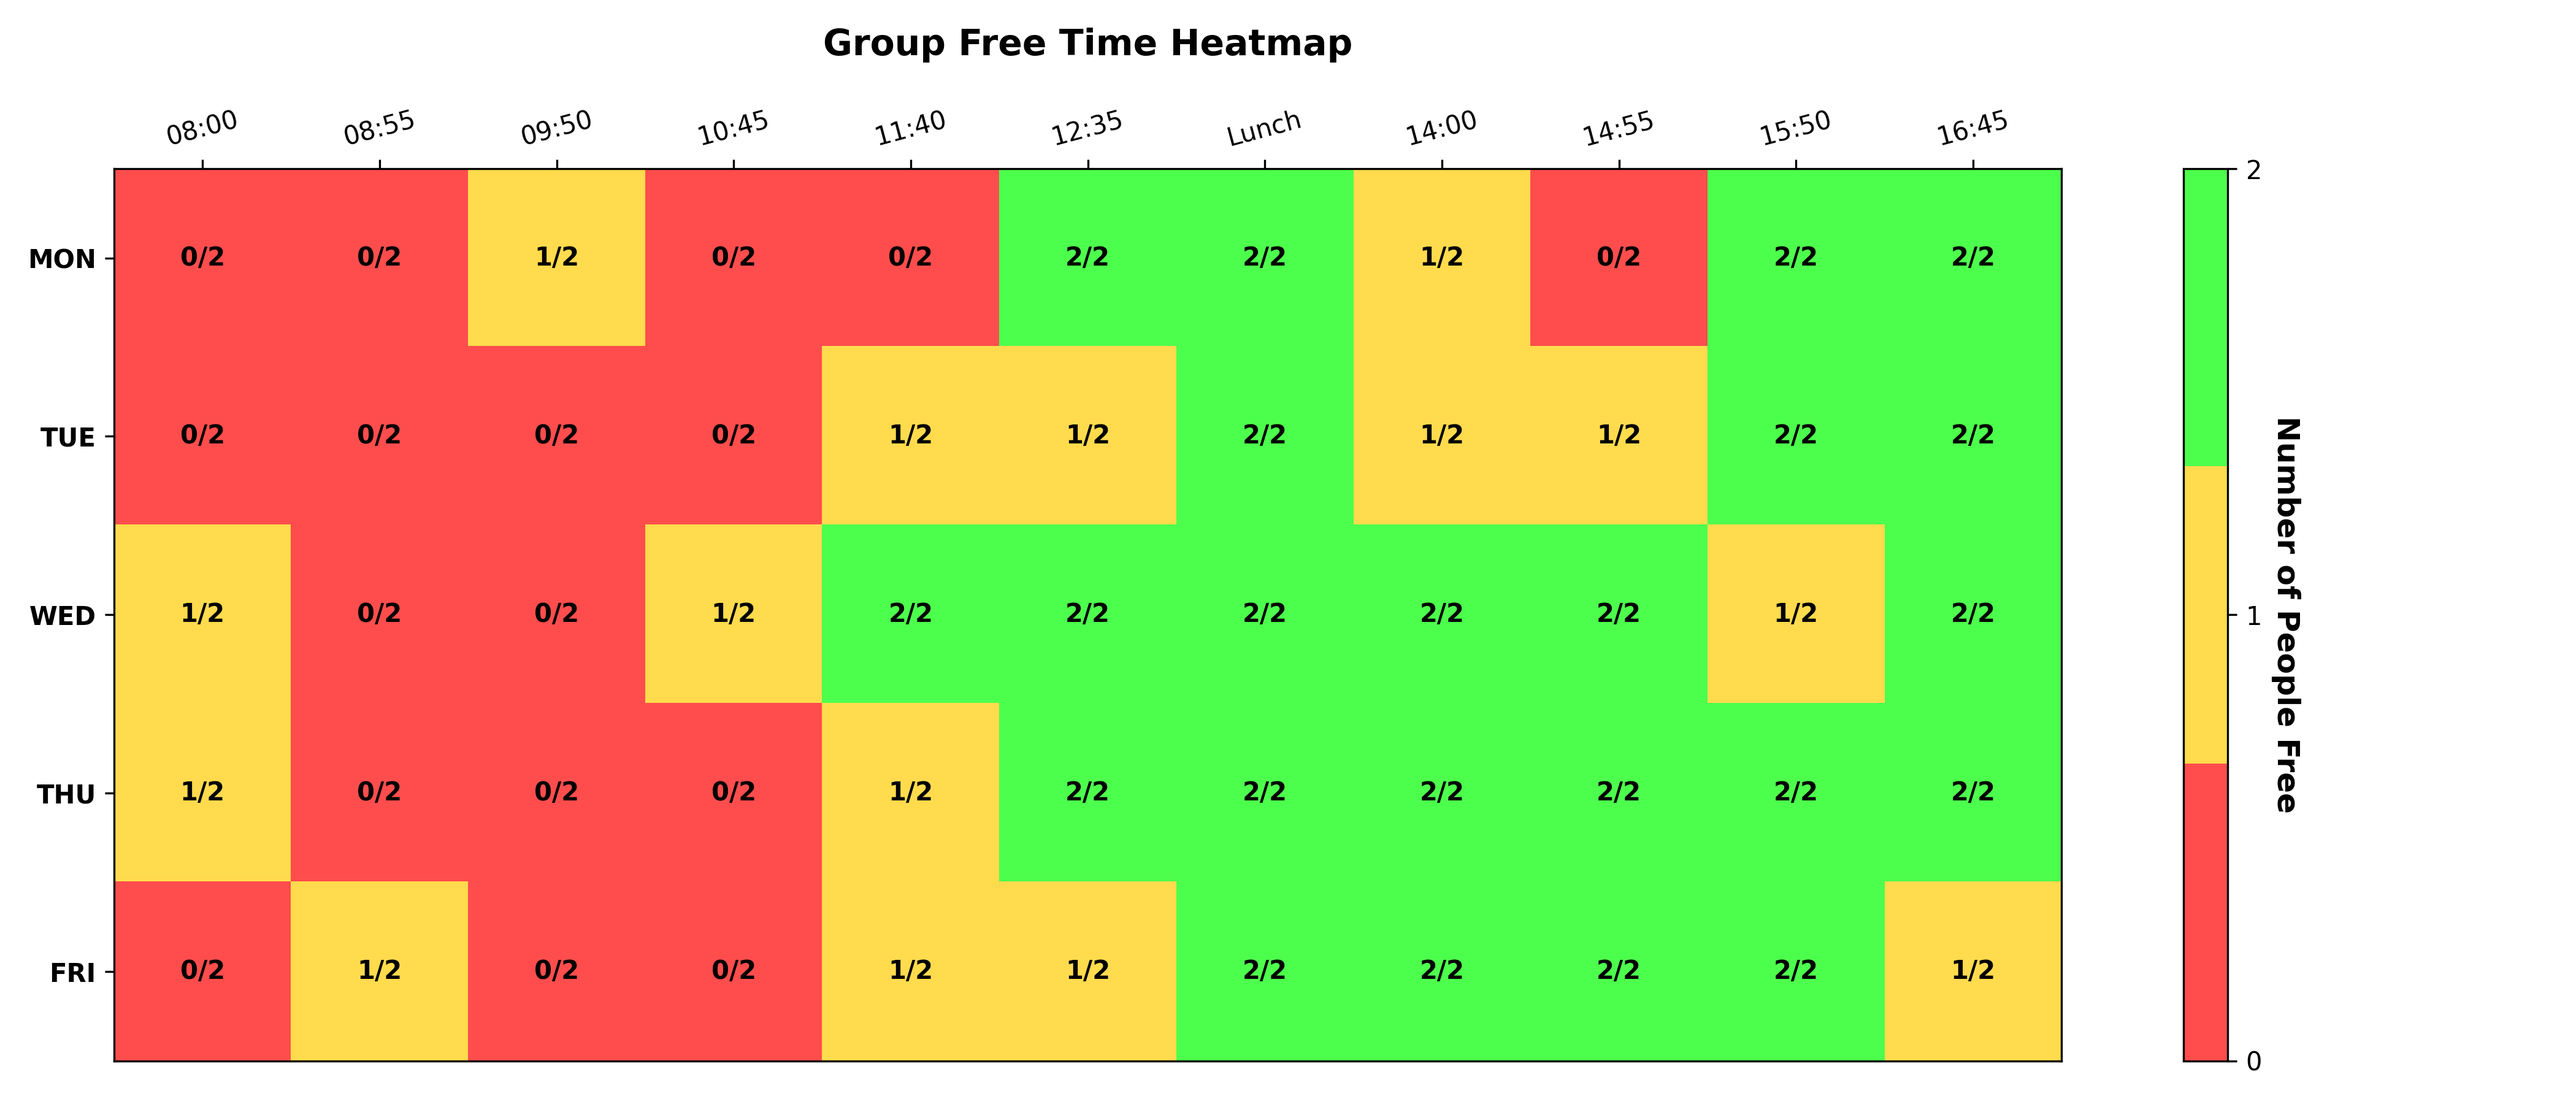
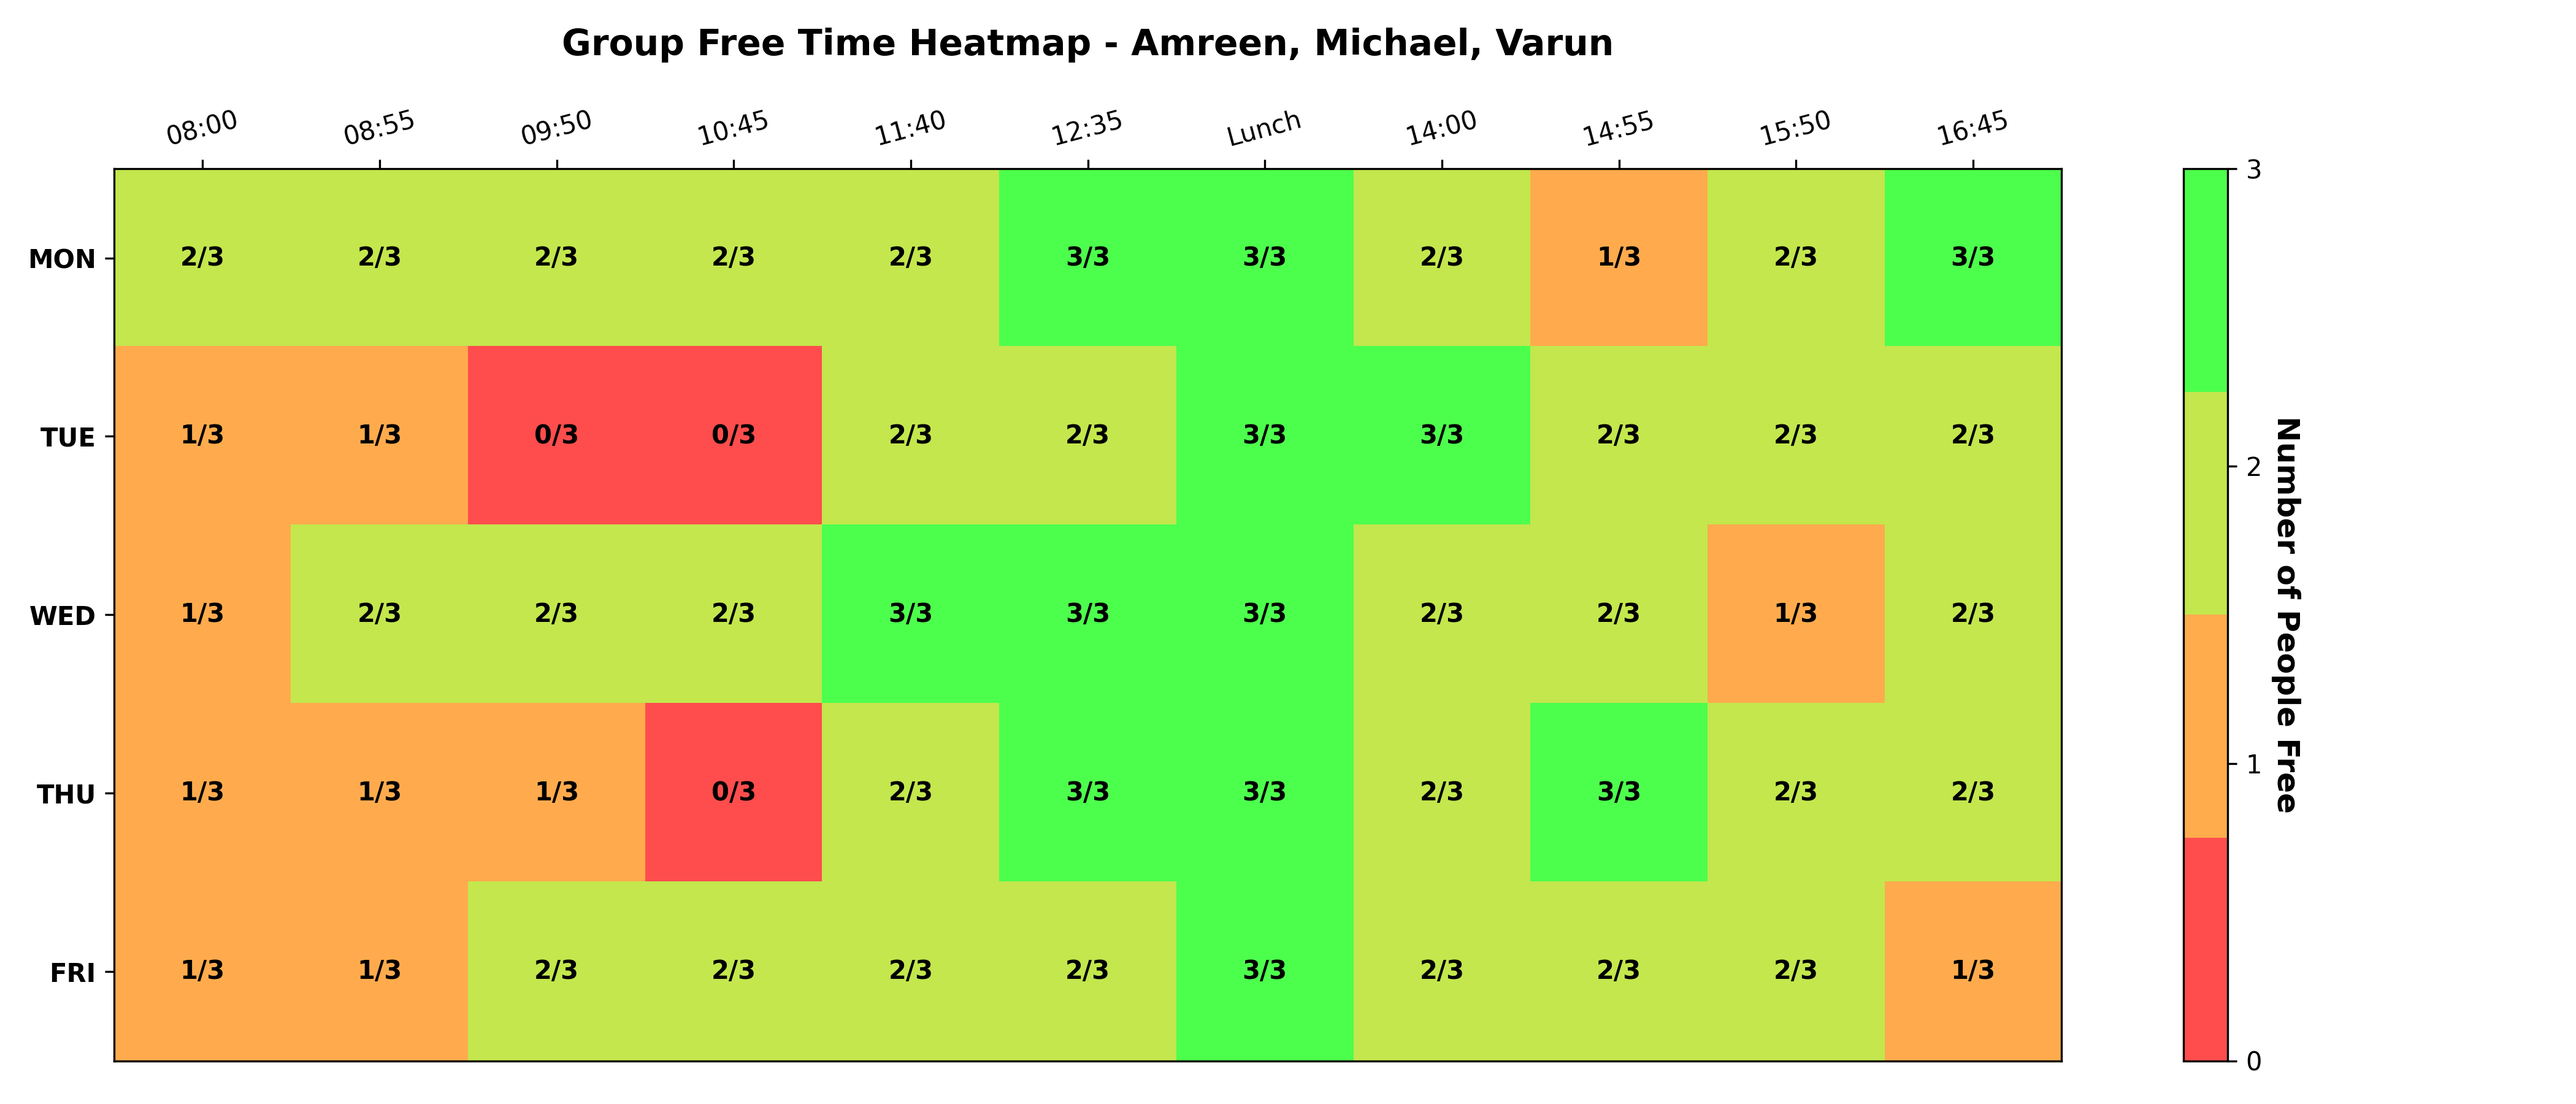
Update: Name list in title and added instructions

diff --git a/main.py b/main.py
@@ -155,7 +155,7 @@ def process_timetables(folder_path: str):
             all_schedules[name] = extract_matrix_via_text(os.path.join(folder_path, filename), name)
     return all_schedules
 
-def generate_heatmap(combined_results):
+def generate_heatmap(combined_results: dict):
     days = ["MON", "TUE", "WED", "THU", "FRI"]
     time_slots = [
         "08:00", "08:55", "09:50", "10:45", "11:40", 
@@ -166,6 +166,8 @@ def generate_heatmap(combined_results):
     heatmap_matrix = np.zeros((5, 11))
     for matrix in combined_results.values():
         heatmap_matrix += matrix
+
+    people = ", ".join(name for name in combined_results)
 
     plt.figure(figsize=(14, 6))
     colors = ["#ff4d4d", "#ffdb4d", "#4dff4d"] 
@@ -185,7 +187,7 @@ def generate_heatmap(combined_results):
 
     plt.xticks(range(11), time_slots, fontsize=10, rotation=15)
     plt.yticks(range(5), days, fontsize=10, fontweight='bold')
-    plt.title("Group Free Time Heatmap", fontsize=14, pad=20, fontweight='bold')
+    plt.title(f"Group Free Time Heatmap - {people}", fontsize=14, pad=20, fontweight='bold')
     
     plt.tight_layout()
     plt.savefig('group_heatmap.png', dpi=300)

diff --git a/instructions.md b/instructions.md
@@ -1,0 +1,4 @@
+pip install cv2, pytesseract, numpy, re, matplotlib
+Install pytesseract OCR and update the path to it in the main file
+Add all your timetable screenshots in a folder in the same directory named 'timetables'
+Run the main.py file 
